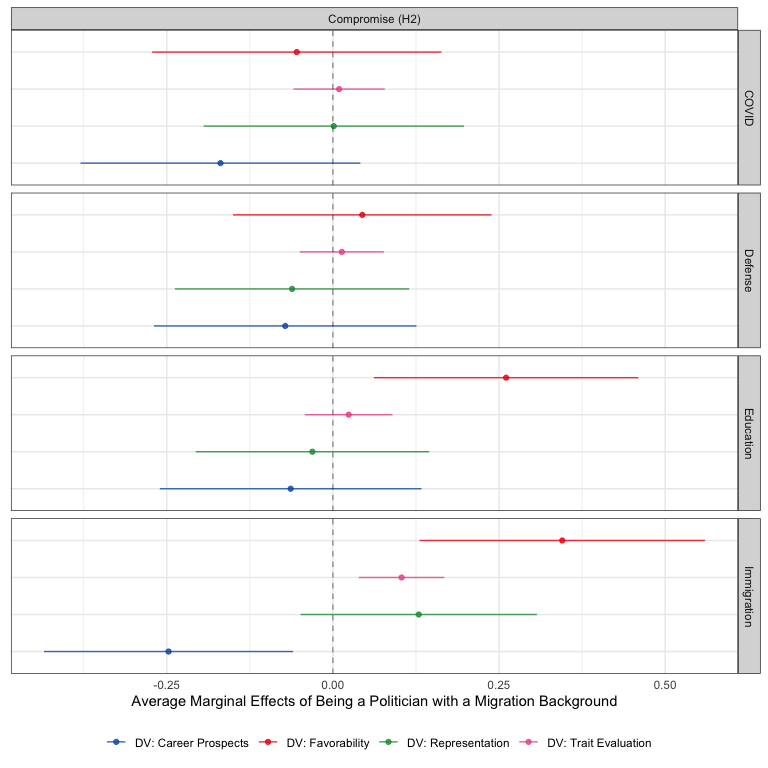
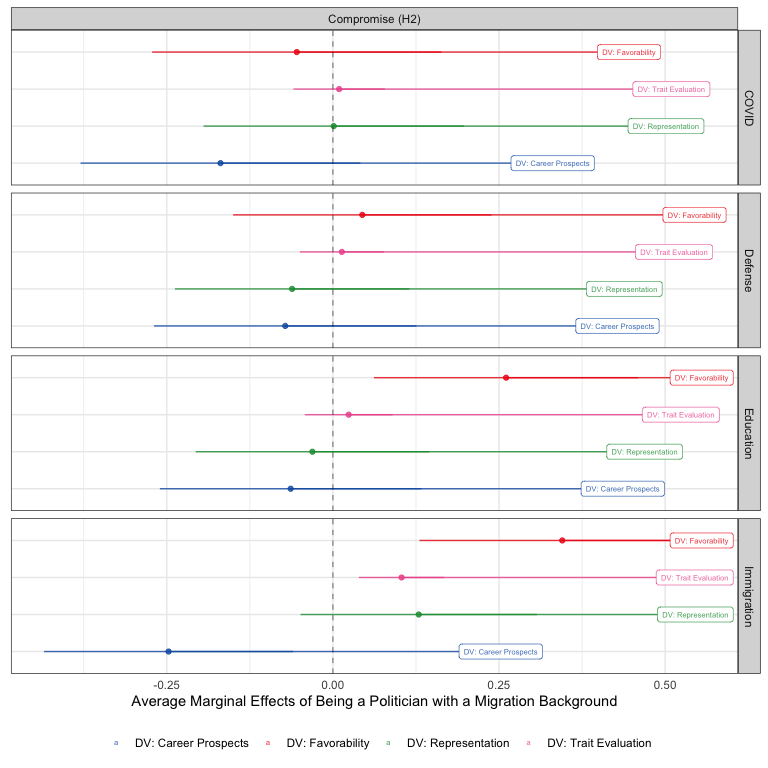
add labels to graphs of h's

diff --git a/report/figures/table_descriptives.tex b/report/figures/table_descriptives.tex
@@ -3,7 +3,7 @@
 <table>
  <thead>
   <tr>
-   <th style="text-align:left;"> name </th>
+   <th style="text-align:left;"> Variables </th>
    <th style="text-align:right;"> Mean Value </th>
    <th style="text-align:right;"> St. Dev </th>
    <th style="text-align:right;"> Min. Value </th>
